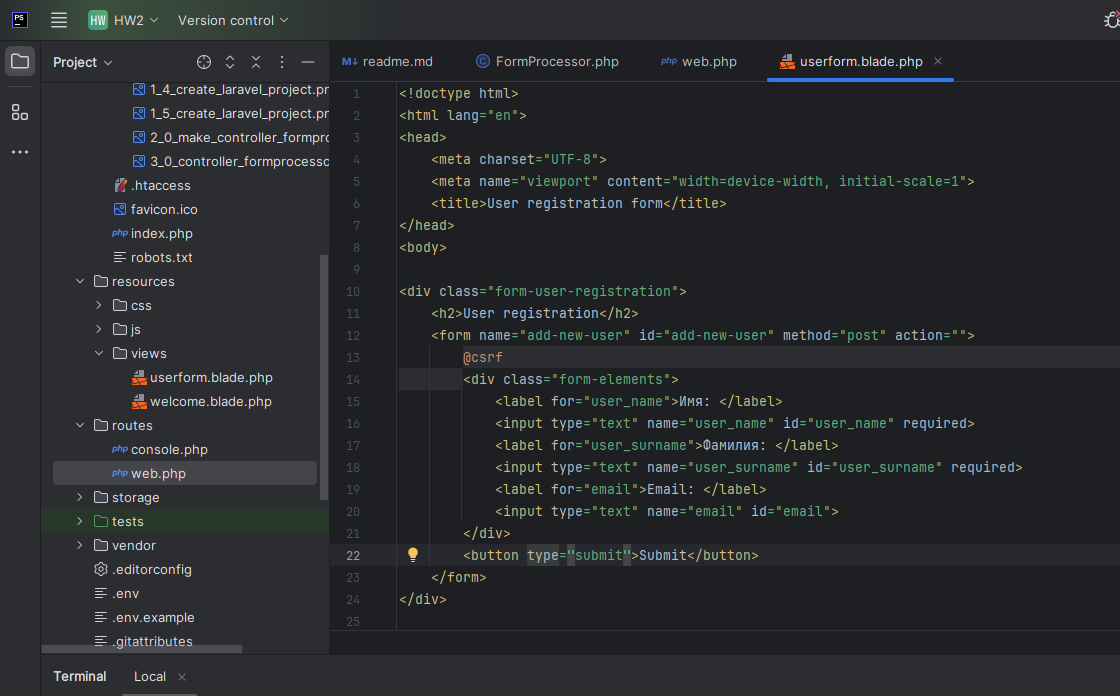
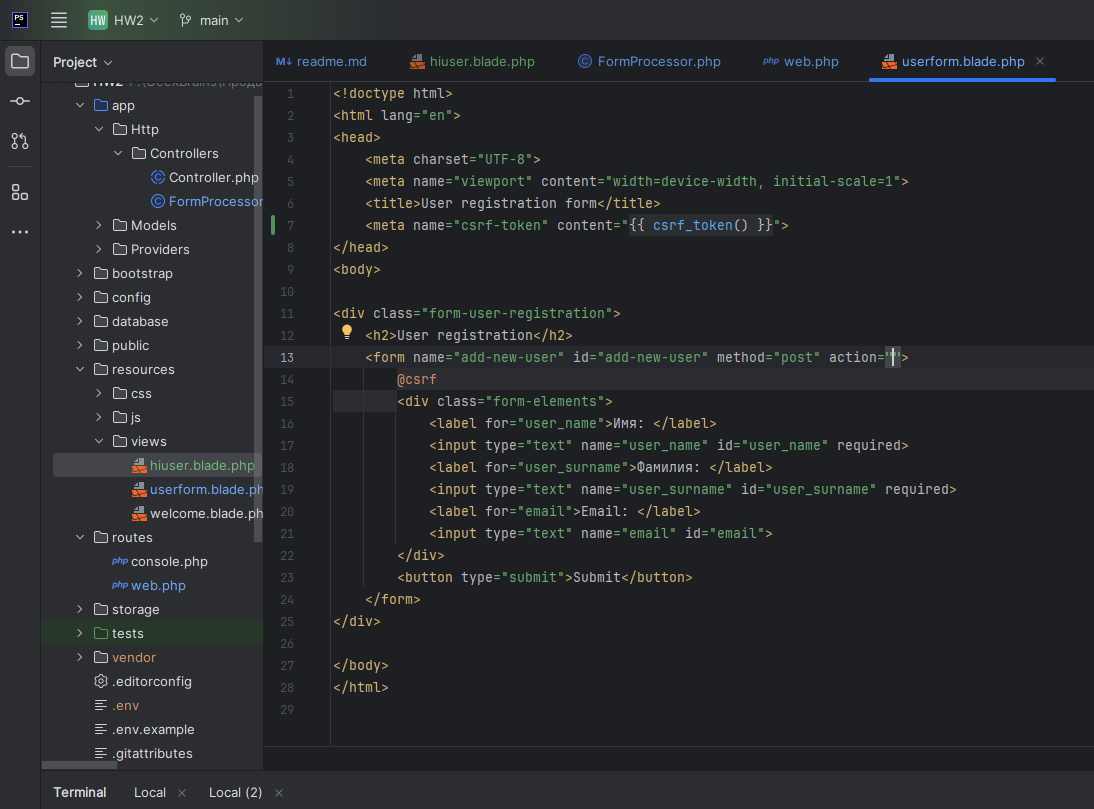
add store to FormProcessor controller and hiuser template

diff --git a/resources/views/userform.blade.php b/resources/views/userform.blade.php
@@ -4,12 +4,13 @@
     <meta charset="UTF-8">
     <meta name="viewport" content="width=device-width, initial-scale=1">
     <title>User registration form</title>
+    <meta name="csrf-token" content="{{ csrf_token() }}">
 </head>
 <body>
 
 <div class="form-user-registration">
     <h2>User registration</h2>
-    <form name="add-new-user" id="add-new-user" method="post" action="">
+    <form name="add-new-user" id="add-new-user" method="post" action="/store_form">
         @csrf
         <div class="form-elements">
             <label for="user_name">Имя: </label>

diff --git a/resources/views/hiuser.blade.php b/resources/views/hiuser.blade.php
@@ -1,0 +1,11 @@
+<!doctype html>
+<html lang="en">
+<head>
+    <meta charset="UTF-8">
+    <meta name="viewport" content="width=device-width, initial-scale=1">
+    <title>Привет, {{ $user['user_name'] }} {{ $user['user_surname'] }}... </title>
+</head>
+<body>
+    <h2>Привет, {{ $user['user_name'] }} {{ $user['user_surname'] }}. Ваша почта: {{ $user['email'] }} </h2>
+</body>
+</html>

diff --git a/app/Http/Controllers/FormProcessor.php b/app/Http/Controllers/FormProcessor.php
@@ -11,4 +11,11 @@ class FormProcessor extends Controller
         return view('userform');
     }
 
+    public function store(Request $request)
+    {
+        $userData = [ 'user_name' => $request->user_name, 'user_surname' => $request->user_surname, 'email' => $request->email];
+
+//        return response()->json($userData);
+        return view('hiuser', ['user' => $userData]);
+    }
 }

diff --git a/routes/web.php b/routes/web.php
@@ -6,5 +6,5 @@ Route::get('/', function () {
     return view('welcome');
 });
 
-//Route::get('user', 'UserController@index');
-Route::get('userform', [\App\Http\Controllers\FormProcessor::class, 'index']);
+Route::get('/userform', [\App\Http\Controllers\FormProcessor::class, 'index']);
+Route::post('/store_form', [\App\Http\Controllers\FormProcessor::class, 'store']);

diff --git a/readme.md b/readme.md
@@ -2,7 +2,6 @@
 ## Домашняя работа №2
 
 ---
-
 ### 1. Установите Laravel с помощью composer, выполнив команду composer create-project laravel/laravel <имя проекта>. В поле <имя проекта> впишите имя вашего проекта. Этому имени будет соответствовать имя папки, в которую вы поместите проект.
 
 ---
@@ -11,20 +10,20 @@
 ![Создание проекта Laravel](./public/img/1_3_create_laravel_project.png "Создание проекта Laravel")
 ![Создание проекта Laravel](./public/img/1_4_create_laravel_project.png "Создание проекта Laravel")
 ![Создание проекта Laravel](./public/img/1_5_create_laravel_project.png "Создание проекта Laravel")
+
 ---
 ### 2. Создайте контроллер для вывода формы на страницу и её обработки. В командную строку введите команду php artisan make:controller FormProcessor.
 
 ---
 ![Создание контрооллера FormProcessor](./public/img/2_0_make_controller_formprocessor.png "Создание контрооллера FormProcessor")
-----
 
+----
 ### 3. После выполнения команды убедитесь, что контроллер создан, — соответствующий файл должен появиться в папке app/Http/Controllers.
 
 ---
 ![Контроллер FormProcessor](./public/img/3_0_controller_formprocessor.png "Контроллер FormProcessor")
+
 ----
-
-
 ### 4. Внутри контроллера опишите метод index: он должен выводить в браузер форму для заполнения.
 
 ---
@@ -43,14 +42,12 @@
 ![Форма userform в браузере](./public/img/4_3_form_in_browser.png "Форма userform в браузере")
 
 ---
-
 ### 5. Внутри файла /routes/web.php опишите новый роут (метод GET), который будет вызывать метод index контроллера FormProcessor по url /userform.
 
 ---
 ![Настройка маршрута для index](./public/img/5_index_route_setting.png "Настройка маршрута для index")
 
 ---
-
 ### 6. Запустите встроенный сервер Laravel командой php artisan serve --port=8080 и убедитесь, что форма выводится по адресу http://localhost:8080/userform.
 
 ---
@@ -58,18 +55,47 @@
 ![Форма в браузере](./public/img/6_2_form_in_browser.png "Форма в браузере")
 
 ---
-
-
 ### 7. В контроллере FormProcessor создайте метод store для обработки формы. Этот метод должен принимать поля формы и отправлять ответ в виде JSON-объекта, содержащего значения полей формы (имя, фамилия, email).
 
+---
+![Метод store в контроллере FormProcessor](./public/img/7_action_store_in_formprocessor_controller.png "Метод store в контроллере FormProcessor")
+
+---
 ### 8. Внутри файла /routes/web.php опишите новый роут (метод POST), который будет вызывать метод store контроллера FormProcessor по url /store_form.
 
+---
+![Маршрут для метода store](./public/img/8_route_store_post.png "Маршрут для метода store")
+
+---
 ### 9. Отредактируйте поле action формы в шаблоне и укажите адрес /store_form.
+
+---
+![Поле action в userform.blade.php](./public/img/9_action_store_form_in_userform_blade_php.png "Поле action в userform.blade.php")
+
+---
 
 ### 10. Откройте форму в браузере по адресу http://localhost:8080/userform, заполните её и попробуйте отправить на сервер, нажав кнопку Submit. Если всё сделано правильно, вы увидите в браузере объект JSON.
 
+---
+![Заполняем форму данными](./public/img/10_1_test_userform.png "Заполняем форму данными")
+![Получаем ответ в видк json](./public/img/10_2_test_userform_submit.png "Получаем ответ в видк json")
+
+---
+
 ### 11. Создайте новый шаблон blade для приветствия пользователя (например: «Привет, <имя>!»).
 
+---
+![Шаблон приветствия пользователя](./public/img/11_template_hi_to_user.png "Шаблон приветствия пользователя")
+
+---
+
 ### 12. Измените метод store контроллера FormProcessor таким образом, чтобы вместо JSON он возвращал шаблон, заполненный данными пользователя.
+
+---
+![Новый метод store контроллера FormProcessor](./public/img/12_1_correct_action_store_of_formprocessor_controller.png "Новый метод store контроллера FormProcessor")
+![Заполненная форма](./public/img/12_2_fill_form_user.png "Заполненная форма")
+![Возвращаемый шаблон, заполненный данными пользователя](./public/img/12_3_response_from_user_form.png "Возвращаемый шаблон, заполненный данными пользователя")
+
+---
 
 ### 13. Сделайте коммит своих изменений с помощью git и отправьте push в репозиторий.
